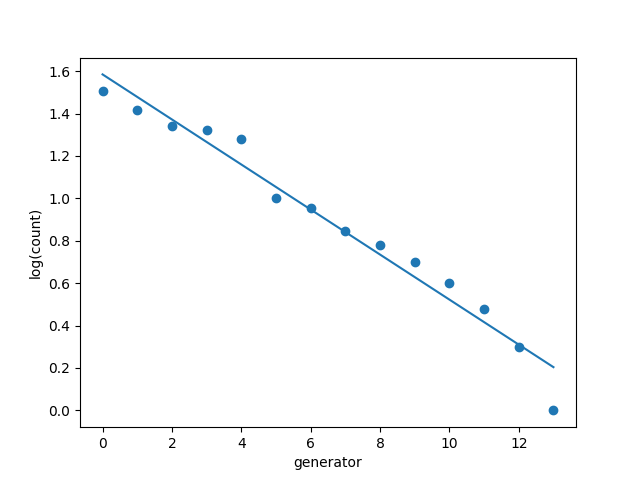
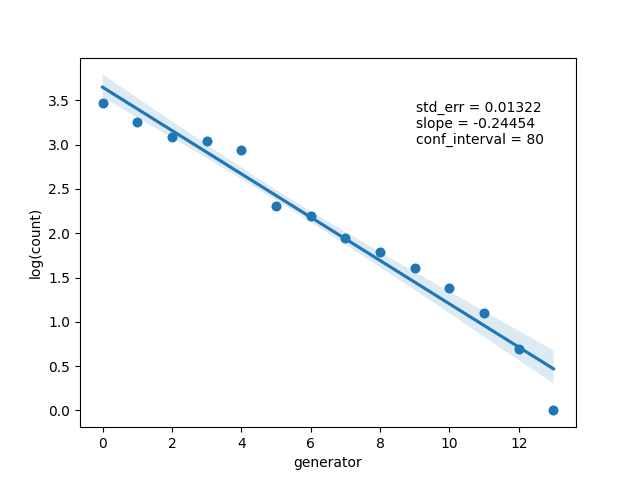
added confidence interval and newspaper lib tests

diff --git a/KGLab_WS2022/generator_analyser.py b/KGLab_WS2022/generator_analyser.py
@@ -8,37 +8,56 @@ from KGLab_WS2022.database_utils import Download
 import matplotlib.pyplot as plt
 import math
 from scipy import stats
+from newspaper import Article
+import seaborn as sns
 
 class GenAnalyser:
 
-    def gatherData(self, table: Table):
-        print("gathering generator data")
-        dict = {}
+    def yield_homepages(self, table: Table):
         count = 0
-        
         for series in table.eventseriesList:
             for event in series.eventList:
                 count += 1
                 if count % 100 == 0:
-                    print(count) 
+                    print(count)
+                if not event.homepage:
+                    continue
+                yield (event.homepage, series.acronym)
+
+    def gather_pub_dates(self, table: Table):
+            for homepage, acronym in self.yield_homepages(table):
+                pd = ""
+                keywords = []
                 try:
-                    if not event.homepage:
-                        continue
-                    #html = session.get(event.homepage, timeout=0.25)
-                    html = requests.get(event.homepage, timeout=0.7)
-                    if not html:
-                        continue
-                    beautifulSoup = BeautifulSoup(html.text, features="lxml")
-                    generator = beautifulSoup.find("meta", {"name":"generator"})
-                    if not generator:
-                        continue
-                    content = generator['content']
-                    if not content in dict:
-                        dict[content] = [series.acronym]
-                    else:
-                        dict[content].append(series.acronym)
+                    article = Article(homepage)
+                    article.download()
+                    article.parse()
+                    #article.nlp()
+                    #keywords = article.keywords
+                    pd = article.publish_date
+                    title = article.title
                 except:
-                    pass
+                    keywords = []
+                    pd = "error"
+                print(f"{acronym} ({homepage}) {title}: {pd}")
+
+    def gatherData(self, table: Table):
+        print("gathering generator data")
+        dict = {}
+        
+        for homepage, acronym in self.yield_homepages(table):
+            html = requests.get(homepage, timeout=0.7)
+            if not html:
+                continue
+            beautifulSoup = BeautifulSoup(html.text, features="lxml")
+            generator = beautifulSoup.find("meta", {"name":"generator"})
+            if not generator:
+                continue
+            content = generator['content']
+            if not content in dict:
+                dict[content] = [acronym]
+            else:
+                dict[content].append(acronym)
         
         # Serializing json
         json_object = json.dumps(dict, indent=4)
@@ -63,28 +82,35 @@ class GenAnalyser:
                 json_object = json.dumps(count, indent=4)
                 targetfile.write(json_object)
 
-    def plotData(self, file_name: str):
+    def plotData(self, file_name: str, confidence_interval=80):
 
         dictionary = json.load(open(file_name, 'r'))
         yAxis = []
         for item in dictionary:
-            if math.log10(item['count']) not in yAxis:
-                yAxis.append(math.log10(item['count']))
+            if math.log(item['count']) not in yAxis:
+                yAxis.append(math.log(item['count']))
         
-        xAxis = range(len(yAxis))
+        xAxis = [*range(len(yAxis))]
         
-        #plt.grid(True)
-
+        # calculate the linear regression manually to obtain the standard error and slope.
         slope, intercept, r, p, std_err = stats.linregress(xAxis, yAxis)
+        '''
         def myfunc(x):
             return slope * x + intercept
 
+        print(slope)
+        print(std_err)
+        
         mymodel = list(map(myfunc, xAxis))
+        '''
+        
+        sns.regplot(x=xAxis, y=yAxis, ci=confidence_interval)
 
         plt.scatter(xAxis,yAxis)
-        plt.plot(xAxis, mymodel)
+        #plt.plot(xAxis, mymodel)
         #plt.plot(xAxis,yAxis, color='maroon', marker='o')
         plt.xlabel('generator')
         plt.ylabel('log(count)')
+        plt.figtext(.65, .7, f"std_err = {round(std_err,5)}\nslope = {round(slope,5)}\nconf_interval = {confidence_interval}")
 
         plt.savefig('./KGLab_WS2022/analysis/plot.png')

diff --git a/main.py b/main.py
@@ -8,6 +8,8 @@ Globals.table = DatabaseUtils.extract_events()
 
 # start generator analysis
 ga = GenAnalyser()
+#ga.gather_pub_dates(Globals.table)
+
 ga.analyse(Globals.table)
 ga.plotData('./KGLab_WS2022/analysis/results.json')
 
